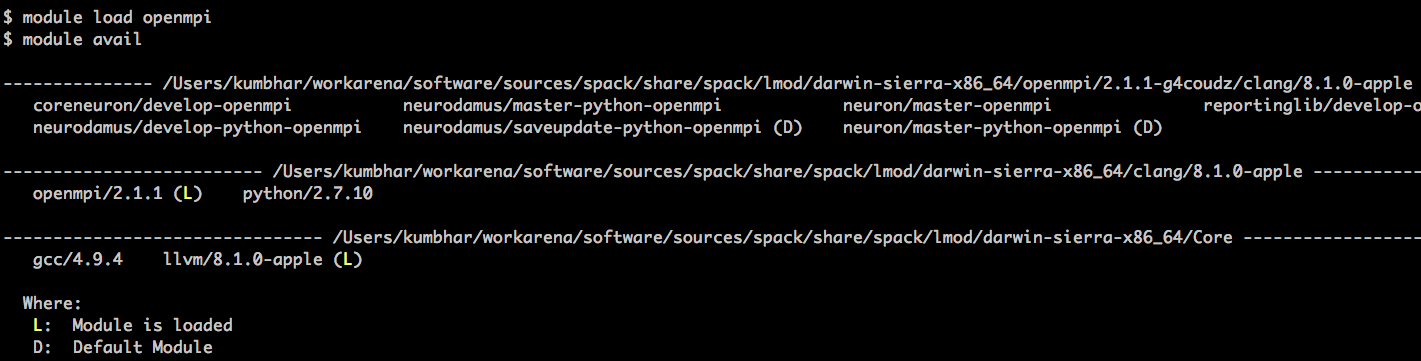
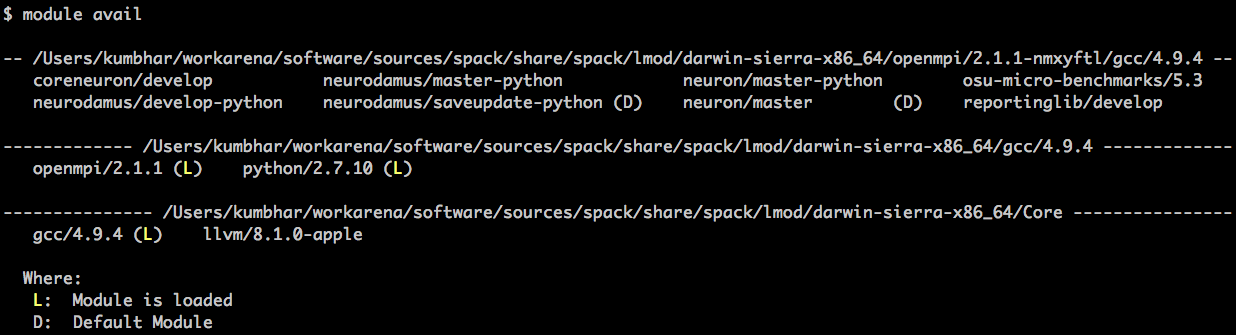
Removed openmpi suffix in lmod modules.yaml

diff --git a/README.md b/README.md
@@ -88,7 +88,7 @@ $ spack arch
 linux-rhel6-x86_64
 ```
 
->> Note that `darwin` is platform name and it could be `linux`, `bgq`, `cray` etc. depending on the system you have.
+> Note that `darwin` is platform name and it could be `linux`, `bgq`, `cray` etc. depending on the system you have.
 
 
 ## Platform Specific Configuration ##
@@ -156,7 +156,7 @@ The provided configurations in [spack-configs](https://github.com/pramodskumbhar
 
 In order to understand the complete workflow, we will go through step-by-step tutorial for OS X and Linux cluster platform. Once you are familiar with this workflow, you can use same workflow for any platform.
 
-#### Mac OS X ###
+### Bootstrapping Spack on Mac OS X ###
 
 As discussed earlier, we can build entire software stack including `CMake`, `GCC`, `LLVM`, `MPI` (`MPICH` or `OpenMPI`) with Spack on our laptop. But for the development purpose, most of the time, we don't want to build these packages from source as they take long time to build (my poor MacBook from 2011!). In this case it is good idea to use `Homebrew` or `Macport` to install these packages.
 
@@ -241,7 +241,7 @@ brew install qt55
 
 Lets start with Spack now!
 
-#### Compiler Configuration ####
+##### Compiler Configuration #####
 
 First step with Spack is to find compilers available on system. We can do this with following command:
 
@@ -340,7 +340,7 @@ spack compiler find /usr/local/Cellar/llvm/3.9.0/
 ```
 
 
-#### Package Configuration ####
+##### Package Configuration #####
 
 Second important step is to tell spack about `existing` packages. Spack can build most of the environment for you but we want to use packages like `MPI`, `CMake`, `autotools` etc. provided by the system. This is more important on HPC facilities where packages like `MPI` are tuned for hardware and provided by supercomputing center/vendors. We don't want to install those ourselves from source. This is where `packages.yaml` file in `$HOME/.spack/darwin/` comes into action (`darwin` here is platform name). The `packages.yaml` tells spack which existing packages to use, their versions, compiler preferences etc. For example, if you try to build package which need `CMake`, Spack will try to build `CMake` and all its dependencies from source. But we have previously installed `CMake` with `brew` and we can tell spack to use it using below `packages.yaml`:
 
@@ -572,7 +572,7 @@ With above configuration we tell Spack to find various packages under `/usr/loca
 	Spack packages are being developed by system engineers, package developers, domain scientists and others. Not every package is tested for every possible compiler version and OS distribution. Some packages can't be build on specific platform or specific compilers (e.g. Cray or Pathscale compiler?). Such packages are being improved so that the [conflicts](http://spack.readthedocs.io/en/latest/packaging_guide.html#conflicts) are being added. And hence sometime you have to check some more details about compatibility / build failure.
 
 
-#### Spack in Action: Installing Packages ####
+##### Spack in Action: Installing Packages #####
 
 In the previous section we saw how to setup external packages in `packages.yaml` and compilers in `compilers.yaml`. Now we are ready to install packages!
 
@@ -730,7 +730,7 @@ There are lot of useful commands and here are some useful once:
 * `spack compiler find` : find new compilers in $PATH
 * `spack config get packages` : show configurations for packages (i.e. `packages.yaml`)
 
-#### Generating Modules ####
+##### Generating Modules #####
 
 In the previous section we saw how to install different softwares. Spack provides `load` command to easily load packages. For example, you can say:
 
@@ -852,7 +852,6 @@ modules:
 
     all:
       suffixes:
-          '^openmpi': 'openmpi'
           '^python': 'python'
 
       environment:
@@ -871,8 +870,10 @@ modules:
           OMPI_MCA_BTL_OPENIB_WARN_DEFAULT_GID_PREFIX: '0'
 ```
 
-The configuration file is similar to tcl modules except `core_compilers`. The generated module hierarchy always contains the three layers `Core` / `Compiler` / `MPI` but can be further extended to any other virtual dependency present in Spack.
-Here we take gcc v4.4 as core compiler which has built clang and gcc 4.9.4. 
+The configuration file is similar to tcl modules except:
+
+* `core_compilers`: the generated module hierarchy always contains the three layers `Core` / `Compiler` / `MPI` and here we using gcc v4.4 as core compiler which has built clang and gcc 4.9.4
+*  suffixes : we have now removed openmpi suffix because MPI is part of Lmod hierarchy (and hence modules name will be distinguised by hierarchy itself)
 
 Make sure to activate support for LMod using following lines in `.bashrc` or `.bash_profile`:
 
@@ -930,7 +931,9 @@ Now we can load neuron and neurodamus modules and check the output of `module av
 
 As our `modules.yaml` has `autoload: 'direct'`, all the direct dependencies of package are autoloaded (i.e. neurodamus has dependency with neuron, reportinglib and python).
 
-But, what is the advantage of going through extra complicated multi-step process? Well, suppose now you want to load modules build by gcc compiler or another mpi for different cluster partition (e.g. KNL or Power8), if you just switch mpi or compiler, Lmod will automatically detect it and will reload everything consistent for you! Lets swap llvm compiler by gcc :
+But, what is the advantage of going through extra complicated multi-step process?
+
+Well, suppose now we want to load modules build by gcc compiler or another mpi version necessary for different cluster partition (e.g. KNL or Power8 or nodes withg inifiniband network). Typically we will do `module purge` and start over again! And that's when Lmod make workflow simpler. If we just switch mpi or compiler, Lmod will automatically detect the changes in the dependency and will reload everything consistent! Lets swap llvm compiler by gcc :
 
 ![spack lmod av](.images/lmod_llvm_swap_gcc.png) 
 
@@ -938,14 +941,16 @@ As indicated by message *"Due to MODULEPATH changes, the following have been rel
 
 ![spack lmod av](.images/lmod_llvm_swap_gcc_avail.png) 
 
-The same will be the case if you switch mpi module. Lmod offers rich functionality to make entire workflow easy. You can find more information [here](http://lmod.readthedocs.io/en/latest/).
+The same will be the case if we have different mpi and switch to that. Lmod offers rich functionality to make entire workflow easy. You can find more information [here](http://lmod.readthedocs.io/en/latest/).
 
 
-#### Lugano Vizcluster ###
+### Bootstrapping Spack on BBP IV Lugano VizCluster ###
 
-All above instructions for OS X platform will be useful to setup development environment on Lugano Vizcluster, read those first. We list few important exceptions that must be considered:
+> TODO : Similar to OS X, we will be adding ste-by-step instructions to bootstrap Spack
 
-* On HPC cluster system like `Lugano Vizcluster`, we don't want to / should not install compilers, MPI libraries etc.
+All above instructions for OS X will be useful to setup development environment on Lugano Vizcluster, read those first. We list few important exceptions that must be considered:
+
+* On HPC cluster system like `Lugano Vizcluster`, we don't want to / shouldn't install compilers, MPI libraries etc.
 * We should use existing modules as much as possible.
 * Spack discourage use of `LD_LIBRARY_PATH` from user space. Many existing modules on HPC systems set `LD_LIBRARY_PATH`. In order to use these modules, we have to use `--dirty` flag during installation (related issue has been reported upstream).
 * All `MPI` packages are externally installed. The actual libraries are `mvapich2`, `mpich3`, `intelmpi` etc. Many times we have to specify these `MPI` libraries explicitly on command line with `install` or `spec` command like `spack spec neuron +mpi ^mvapich2` otherwise we get `list out of index` error. (this is likely a bug and has been reported upstream).
